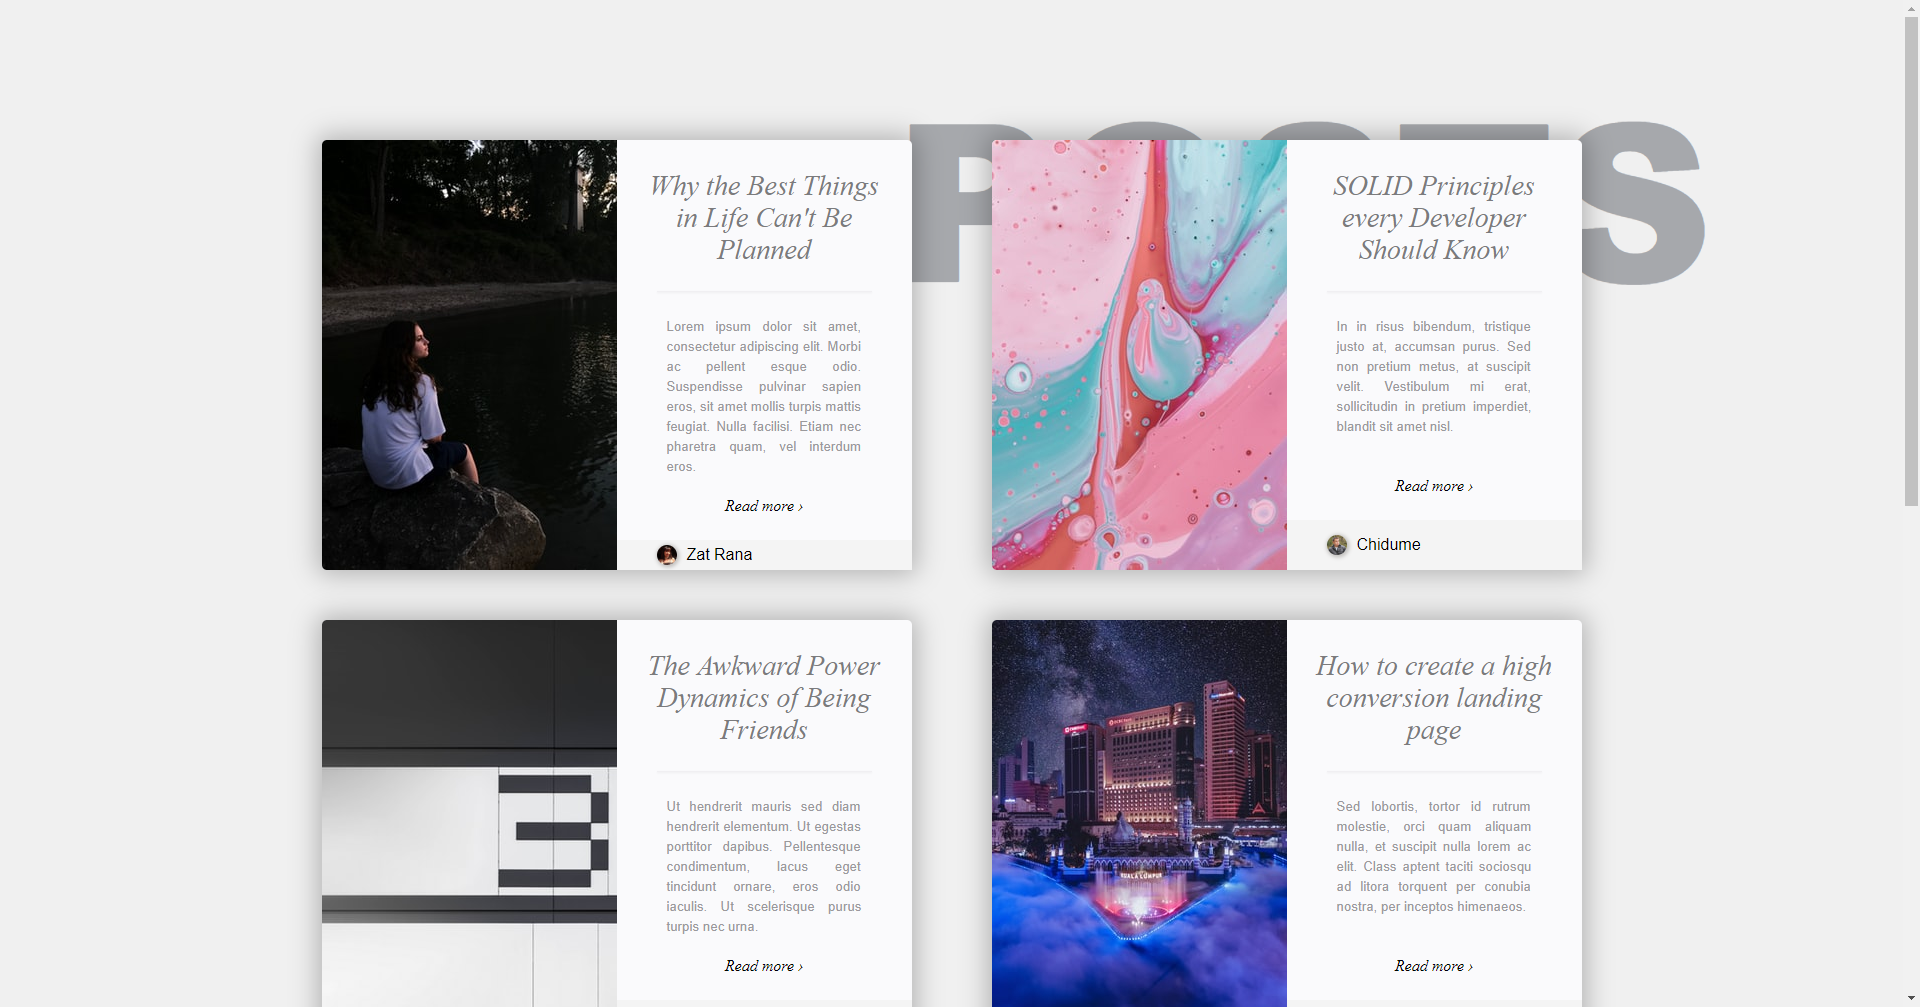
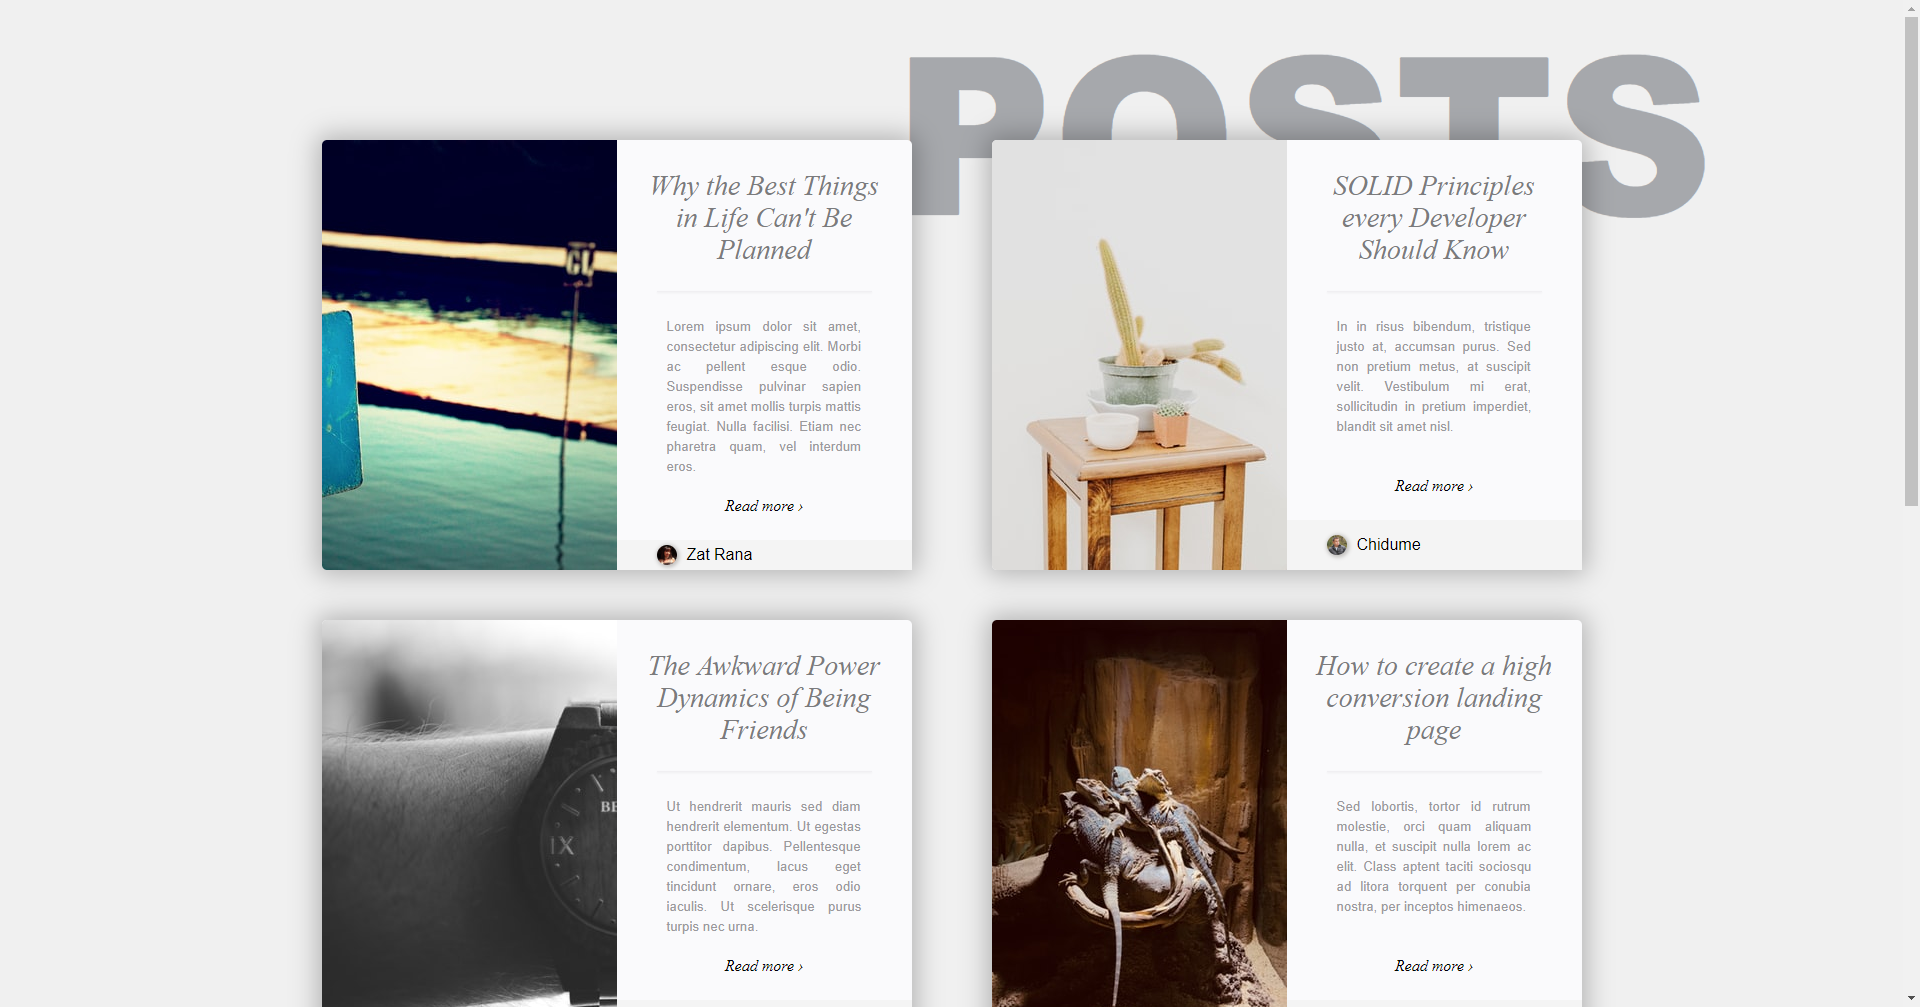
Fix heading top in Chrome and update screenshot

diff --git a/index.css b/index.css
@@ -34,10 +34,12 @@ body {
 h1 {
   color: #A6A8AC;
   font: 900 220px sans-serif;
-  margin: -100px 0 0 0;
+  line-height: 80%;
+  margin: 0;
   position: absolute;
   right: 10%;
   text-transform: uppercase;
+  top: 40px;
 }
 
 .post {
